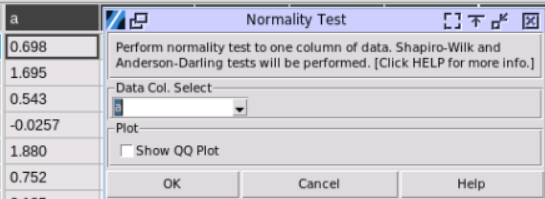
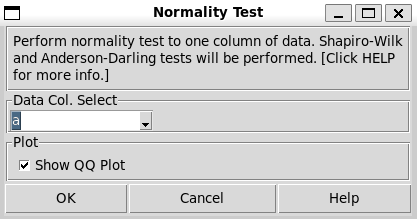
add CI help and updated norm test pic

diff --git a/code/utilities.py b/code/utilities.py
@@ -314,8 +314,8 @@ def d2_values(n):
           3.588000000,  # n = 17
           3.640000000,  # n = 18
           3.689000000,  # n = 19
-          3.735000000   # n = 20
-          , 3.778, 3.819, 3.858, 3.895, 3.931, 3.964, 3.997, 4.027, 4.057, 4.086, 4.113, 4.139, 4.165, 4.189, 4.213, 4.236, 4.259, 4.280, 4.301, 4.322, 4.341, 4.361, 4.379, 4.398, 4.415, 4.433, 4.450, 4.466, 4.482, 4.498]
+          3.735000000,   # n = 20
+          3.778, 3.819, 3.858, 3.895, 3.931, 3.964, 3.997, 4.027, 4.057, 4.086, 4.113, 4.139, 4.165, 4.189, 4.213, 4.236, 4.259, 4.280, 4.301, 4.322, 4.341, 4.361, 4.379, 4.398, 4.415, 4.433, 4.450, 4.466, 4.482, 4.498]
     return d2[n] if n < 51 else d2[50]
 
 

diff --git a/code/basic_dialogs.py b/code/basic_dialogs.py
@@ -188,7 +188,7 @@ class NormTestDialog(Dialogs):
 
 class CIDialog(Dialogs):
     def createWidgets(self, m):
-        f = tk.LabelFrame(m, text='Mean & Std CI')
+        f = tk.LabelFrame(m, text='Data Col. Select')
         f.pack(side=TOP, fill=BOTH, padx=2)
         self.xvar = tk.StringVar(value="")
         w = ttk.Combobox(

diff --git a/docs/usage/stats.rst b/docs/usage/stats.rst
@@ -122,3 +122,36 @@ QQ plots compare the quantiles of the sample data against the quantiles of a the
 - Normally Distributed Data: If the data is normally distributed, the points on the QQ plot will roughly form a straight line from the lower left to the upper right corner.
 - Non-Normal Data: Deviations from this straight line indicate departures from normality.
 
+
+Confidence Intervals
+--------------------
+
+Choose Stats>Confidence Intervals.
+
+.. image:: images/ci1.png
+   :align: center
+
+- **Data Col. Select:** Select the sampled dataset, i.e. a column of data. The population who was sampled from should be normally distributed. 
+
+- **Alpha:** The Confidence Intervals want to calculate. 0.05 stands for 95% probability range of the population mean and standard deviation, while 0.1 stands for 90%, and so on.
+
+A sample output:
+
+.. image:: images/ci2.png
+   :align: center
+
+Interpretation:
+
+- **Two-sided CI:** A 95% two-sided CI of (-0.119, 0.852) for a population mean can be interpreted as:
+"We are 95% confident that the true population mean falls between -0.119 and 0.852."
+This means that if we were to repeat the sampling process many times and calculate the CI each time, about 95% of these intervals would contain the true population mean.
+- **One-sided CI:** A 95% one-sided upper CI of (-, 0.767) can be interpreted as: "We are 95% confident that the true population mean is less than or equal to 0.767." A 95% one-sided lower CI of (-0.035, +) can be interpreted as: "We are 95% confident that the true population mean is greater than or equal to -0.035."
+
+The Interpretation of CI of standard deviation is same to the mean CI above. 
+
+Fit Distributions
+-----------------
+
+
+
+
